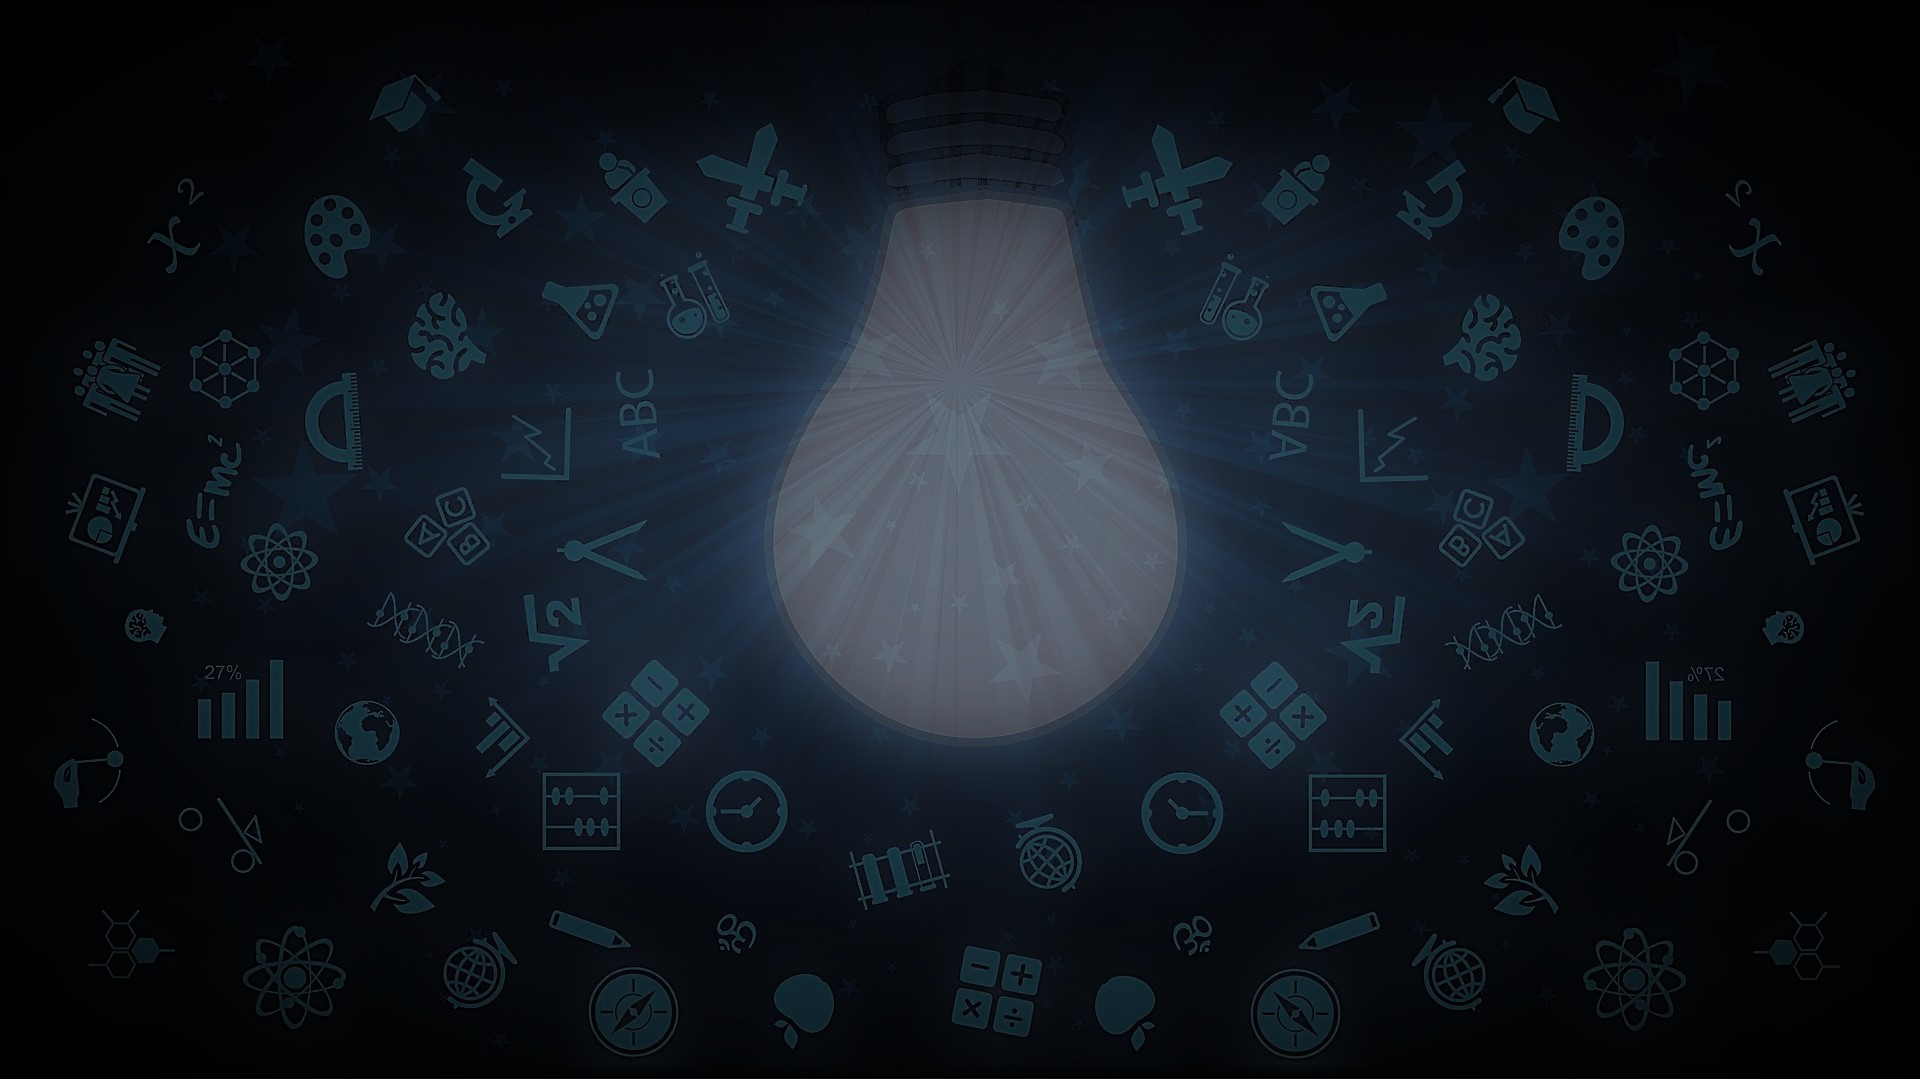
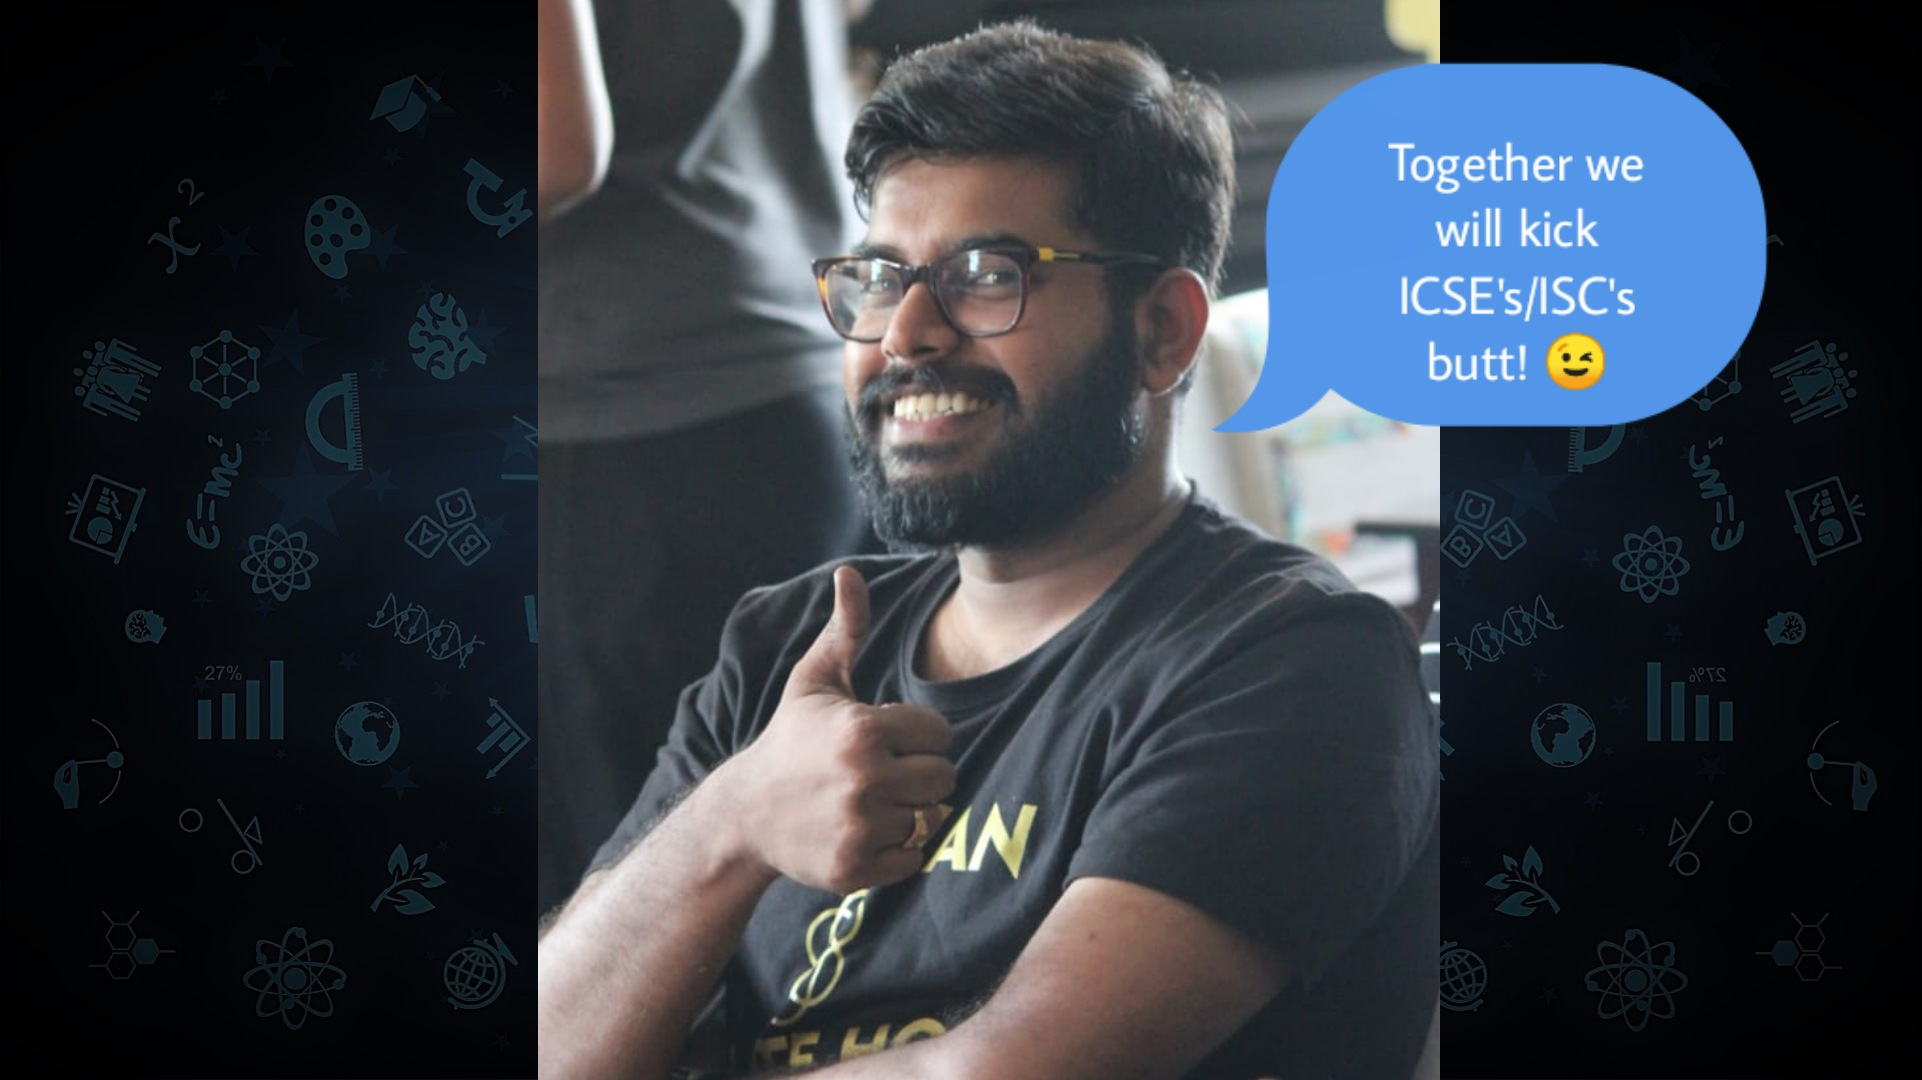
new bg and style

diff --git a/index.html b/index.html
@@ -67,9 +67,11 @@
         <div class="row">
           <div class="col-md-8 col-md-offset-2 intro-text">
             <h1 id="lblGreetings"></h1>
+			<h2></h2>
+			<h2>Welcome to the Crash Course with </h2><h3>'Shivam Sir'</h3>
             <a href="#features" class="btn btn-custom btn-lg page-scroll" style="margin:10px;">Learn More</a>
-			<a href="#features" class="btn btn-custom btn-lg page-scroll" style="margin:10px;">Register Test series</a>
-			<a href="#features" class="btn btn-custom btn-lg page-scroll" style="margin:10px;">Test schedule</a>
+			<a href="#features" class="btn btn-custom btn-lg page-scroll" style="margin:10px;">Register for free trial</a>
+			<a href="#features" class="btn btn-custom btn-lg page-scroll" style="margin:10px;">Class Schedule</a>
 			</div>
         </div>
       </div>
@@ -387,7 +389,7 @@
 <!-- Footer Section -->
 <div id="footer">
   <div class="container text-center">
-    <p>&copy; 2020 Design by <a href="http://www.tikateklabs.com" rel="nofollow">Tik A Tek Labs</a></p>
+    <p>&copy; 2020 Design by <a rel="nofollow">Tik A Tek Labs</a></p>
   </div>
 </div>
 <script type="text/javascript" src="js/jquery.1.11.1.js"></script> 

diff --git a/css/style.css b/css/style.css
@@ -11,7 +11,7 @@ h2, h3, h4 {
 	font-family: 'Raleway', sans-serif;
 }
 h2 {
-	text-transform: uppercase;
+	
 	margin: 0 0 20px 0;
 	font-weight: 800;
 	font-size: 36px;
@@ -210,6 +210,24 @@ a:focus, .btn:focus, .btn:active:focus, .btn.active:focus, .btn.focus, .btn:acti
 }
 
 .intro h1 span {
+	font-weight: 800;
+	color: #5ca9fb;
+}
+.intro h2 {
+	margin: 0 0 20px 0;
+	font-weight: 800;
+	font-size: 36px;
+	color: #fff;
+}
+.intro h3 {
+	margin: 0 0 20px 0;
+	font-weight: 800;
+	font-size: 36px;
+	color: #FFA500;
+}
+
+
+.intro h2 span {
 	font-weight: 800;
 	color: #5ca9fb;
 }
